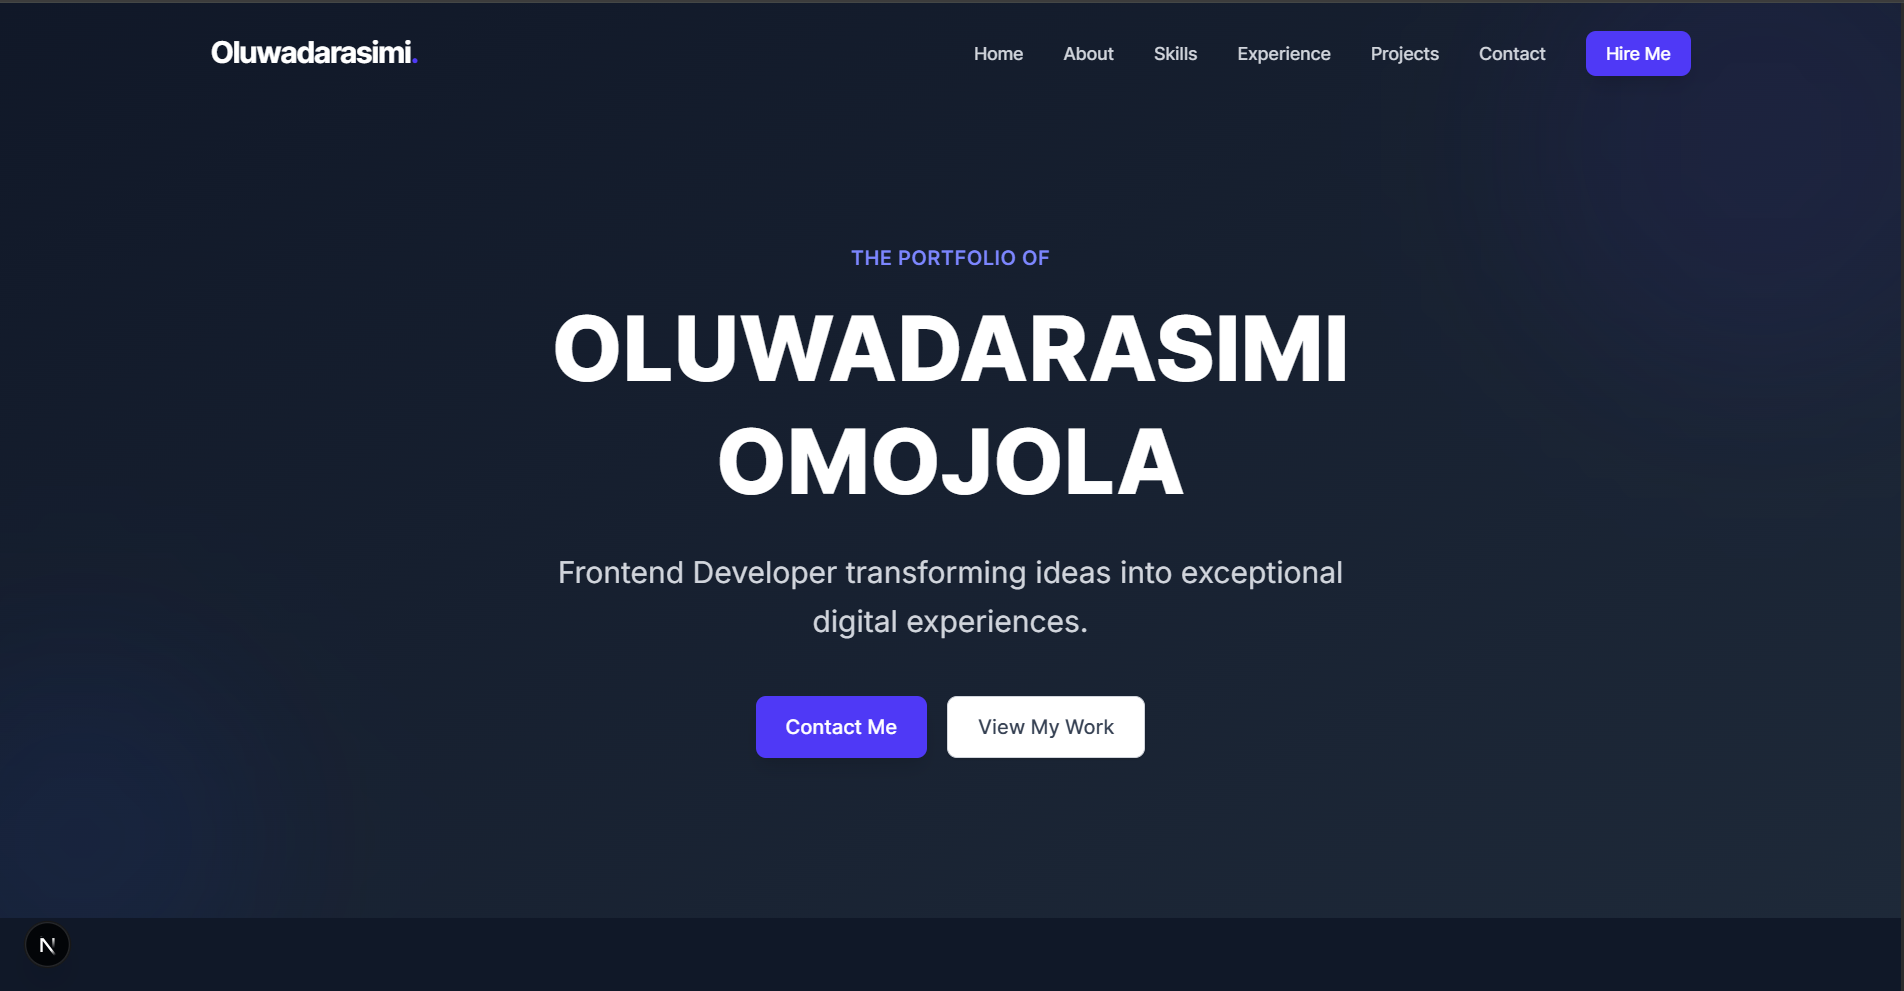
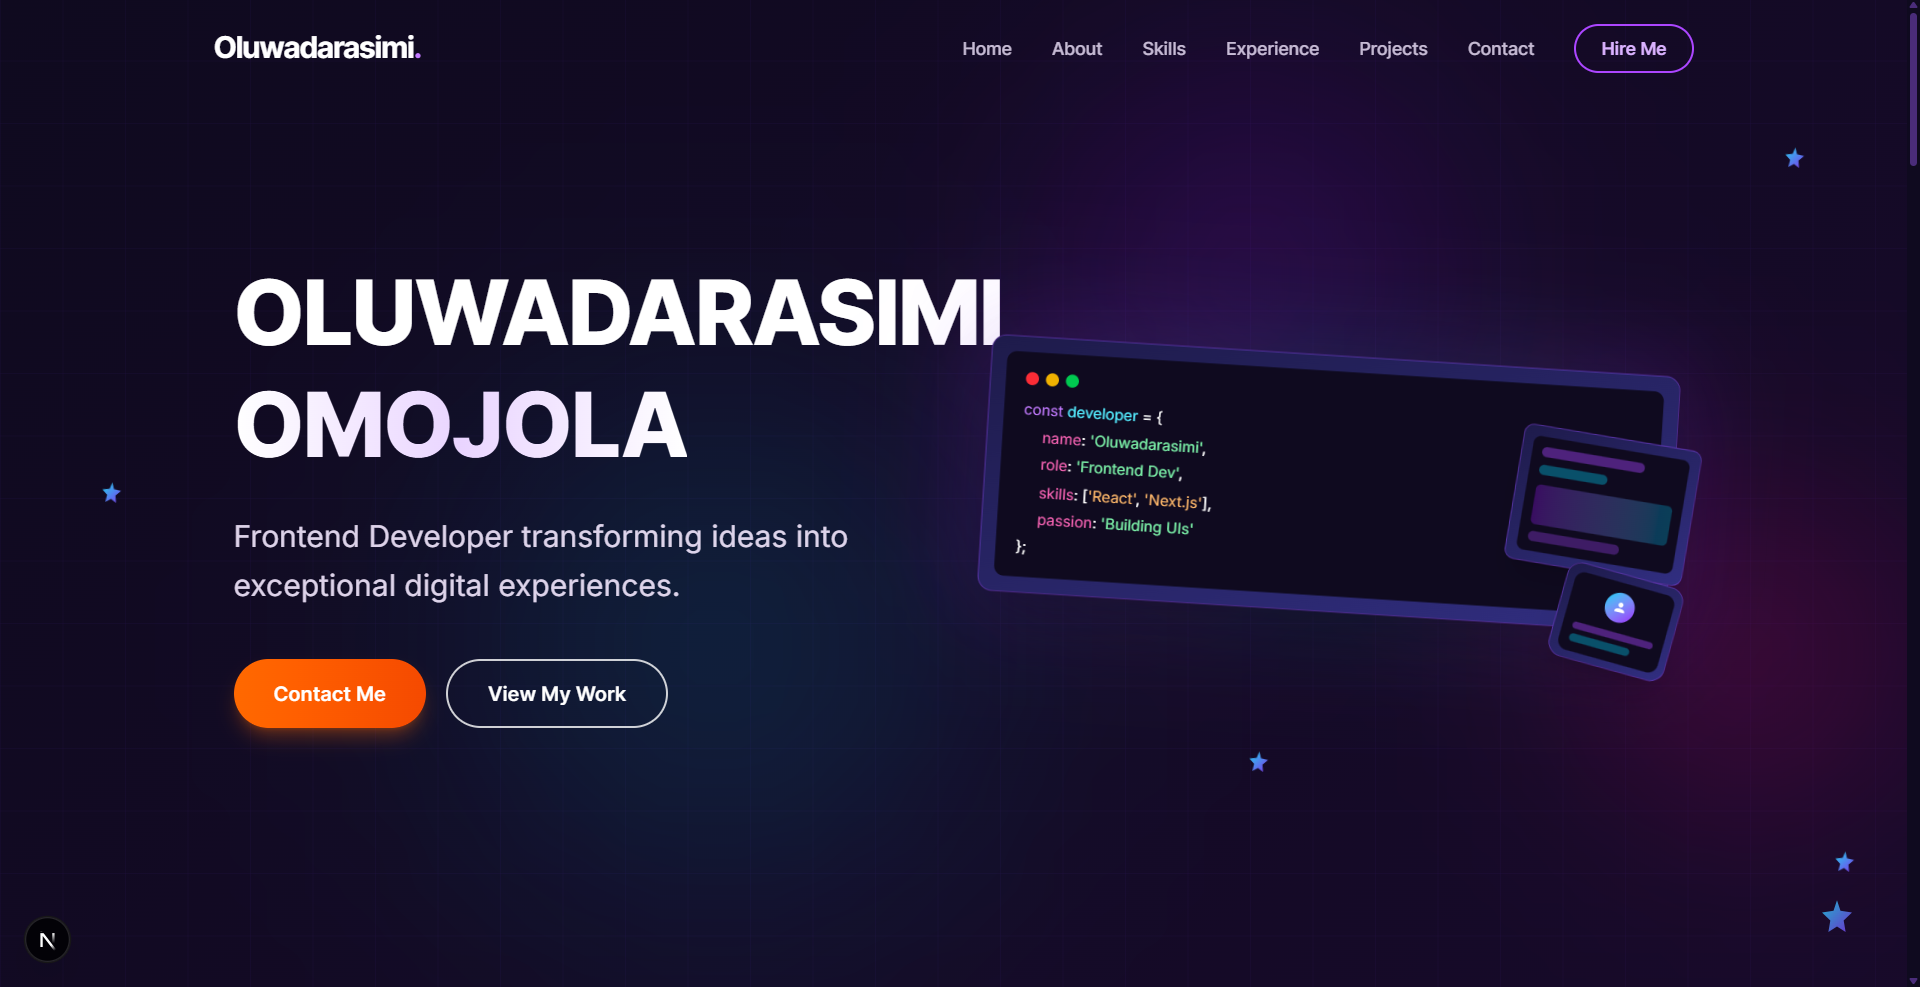
improved text view on mobile and smaller screen sizes in hero section, added animation to device mockup in hero section , used Image from next instead of img for project images for improved optimization when loading. Updated portfolio image and deleted unwanted files

diff --git a/components/sections/Hero.tsx b/components/sections/Hero.tsx
@@ -102,7 +102,7 @@ export default function Hero() {
           <div className="grid lg:grid-cols-2 gap-12 items-center">
             {/* Left content */}
             <div className="text-left">
-              <h1 className="text-5xl sm:text-6xl md:text-7xl lg:text-8xl font-extrabold text-white mb-6 leading-tight tracking-tight">
+              <h1 className="text-4xl sm:text-5xl md:text-6xl lg:text-7xl font-extrabold text-white mb-6 leading-tight tracking-tight">
                 OLUWADARASIMI
                 <br />
                 <span className="text-transparent bg-clip-text bg-gradient-to-r from-white via-purple-200 to-white">
@@ -125,7 +125,7 @@ export default function Hero() {
             </div>
 
             {/* Right content - Device mockups */}
-            <div className="hidden lg:flex justify-end">
+            <div className="hidden lg:flex justify-end animate-float delay-500 duration-300 ease-in-out hover:scale-105 hover:shadow-lg hover:shadow-white/10">
               <DeviceMockups />
             </div>
           </div>

diff --git a/components/sections/Projects.tsx b/components/sections/Projects.tsx
@@ -1,5 +1,6 @@
 import { Section, SectionTitle } from "@/components/ui/sections";
 import { Icons } from "@/components/ui/Icons";
+import Image from "next/image";
 
 export default function Projects() {
   const projects = [
@@ -55,7 +56,7 @@ export default function Projects() {
             className="group glass-card rounded-xl overflow-hidden border border-purple-500/30 hover:border-purple-400/60 hover:shadow-xl hover:shadow-purple-500/30 transition-all duration-300 flex flex-col"
           >
             <div className="relative overflow-hidden h-48">
-              <img
+              <Image
                 src={proj.image}
                 alt={proj.title}
                 className="w-full h-full object-cover transform group-hover:scale-110 transition-transform duration-500"
